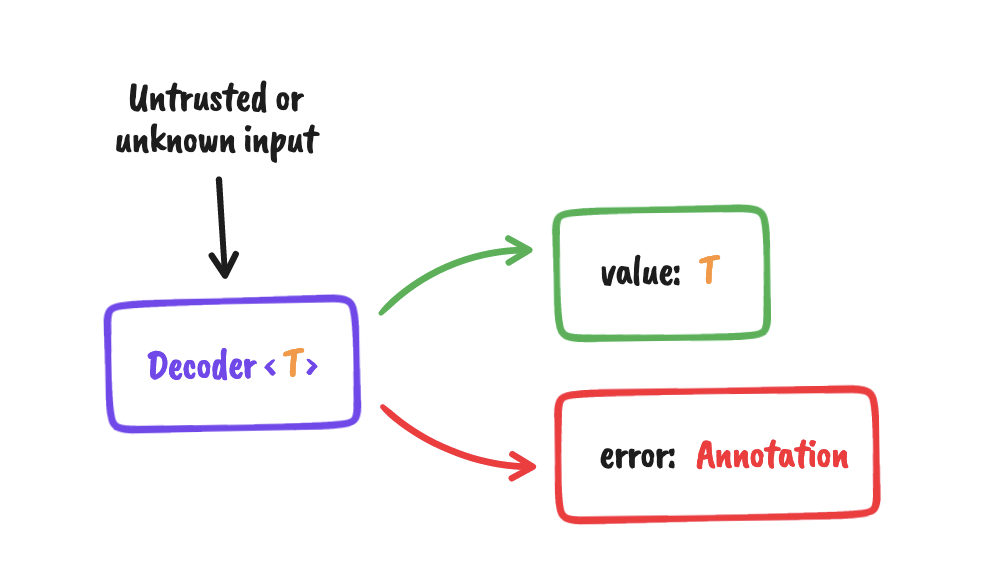
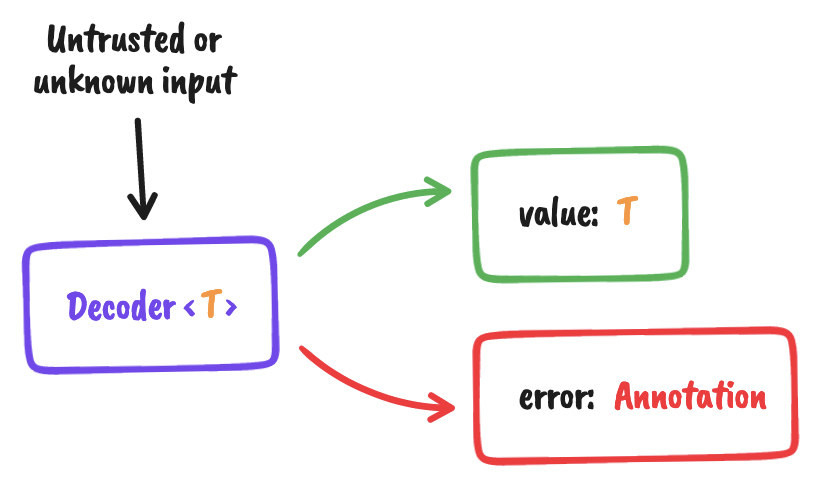
Cut margins

Changed region(s): [[0.0, 0.0305, 0.9685, 0.9451]]

diff --git a/docs/overview.md b/docs/overview.md
@@ -10,7 +10,7 @@ function that, when called on an untrusted input, will either return an "ok" res
 the decoded value of type `T` as its payload, or an "error" result, with the original
 input object annotated.
 
-<img alt="The concept of a decoder explained schematically" src="./assets/schematic-decoders.png" style="max-width: min(494px, 100%)" />
+<img alt="The concept of a decoder explained schematically" src="./assets/schematic-decoders.png" style="max-width: min(413px, 100%)" />
 
 A decoder can either _accept_ or _reject_ the given untrusted input. Whether it accepts or
 rejects depends on the decoder's implementation. Every decoder has a type, for example
